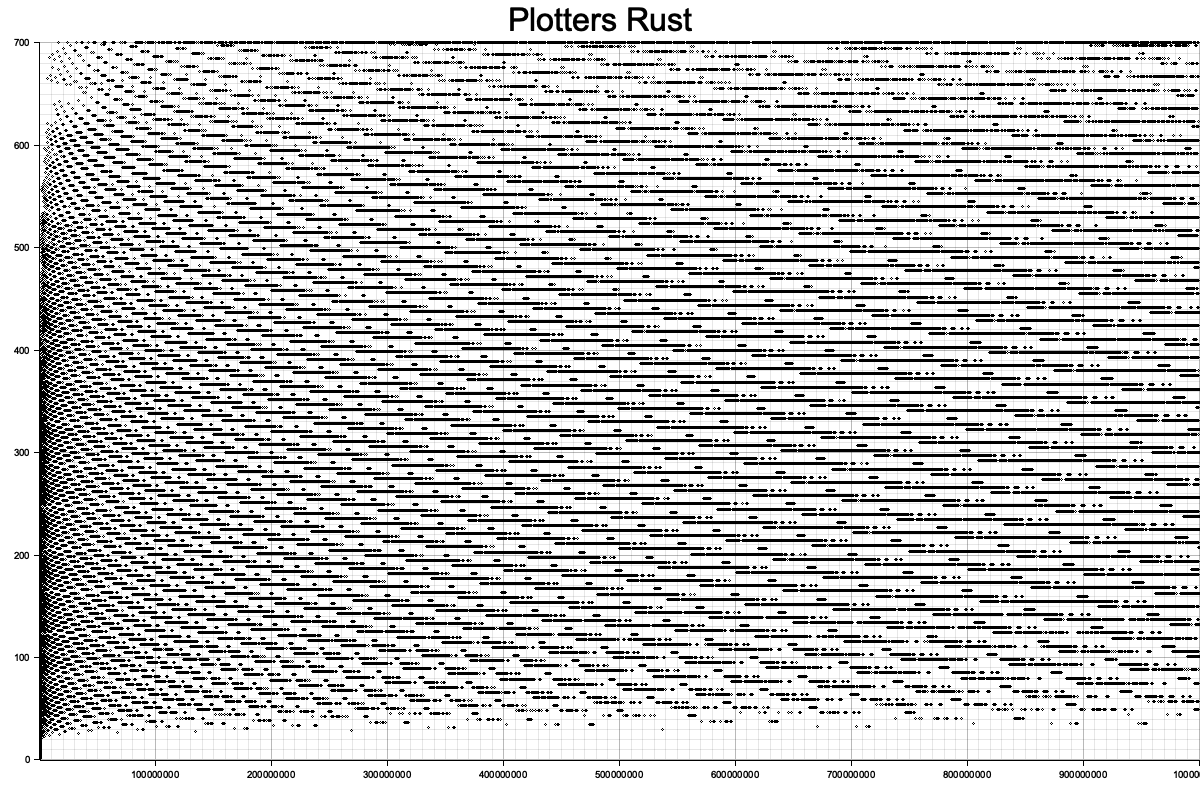
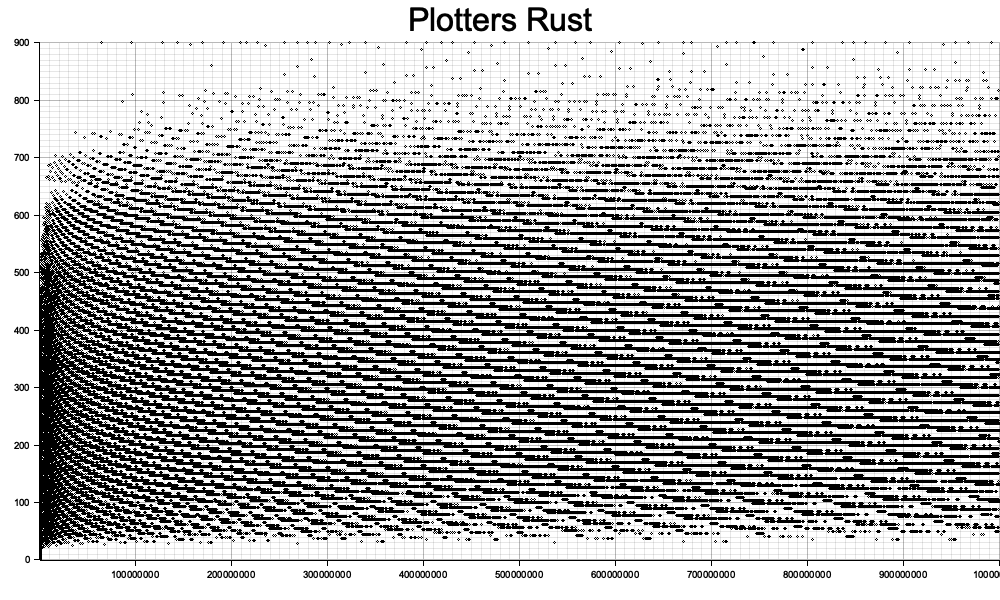
added tail call optimization

diff --git a/src/main.rs b/src/main.rs
@@ -1,23 +1,27 @@
 use collatz_rust::collatz_length_brian;
 use plotters::prelude::*;
+use std::time::Instant;
 
 fn main()  {
 
   let high = 1000000000;
+  //let high = 100000;
 
-  let xs: Vec<i32> = (1..=high).collect();
-  let points = xs.into_iter().map(|n| {let y = collatz_length_brian(n as i64); (n,y)});
-  let root_area = BitMapBackend::new("myplot.png", (1200, 800))
+  let xs  = 1..=high;
+  let points = xs.map(|n| (n,collatz_length_brian(n)) );
+
+  let start = Instant::now();
+
+  let root_area = BitMapBackend::new("myplot.png", (1000, 600))
     .into_drawing_area();
 
   root_area.fill(&WHITE).unwrap();
-
 
   let mut ctx = ChartBuilder::on(&root_area)
     .set_label_area_size(LabelAreaPosition::Left, 40)
     .set_label_area_size(LabelAreaPosition::Bottom, 40)
     .caption("Plotters Rust", ("sans-serif", 40))
-    .build_cartesian_2d(1..high, 0..700)
+    .build_cartesian_2d(1..high, 0..900)
     .unwrap();
 
   ctx.configure_mesh().draw().unwrap();
@@ -26,6 +30,7 @@ fn main()  {
 
   ctx.draw_series(series).unwrap();
 
-
+  let duration = start.elapsed();
+  println!("Time to compute points AND plot is: {:?}", duration);
 
 }

diff --git a/src/lib.rs b/src/lib.rs
@@ -1,7 +1,7 @@
 
 use itertools::iterate;
 use itertools::Itertools;
-
+use tailcall::tailcall;
 
 pub fn collatz_next(n: &i64) -> i64 {
     if n % 2 == 0 {
@@ -19,12 +19,20 @@ pub fn collatz_length(n: &i64) -> i64 {
 }
 
 pub fn collatz_length_brian(n: i64) -> i32 {
-    if n <= 1 {
-        // just in case some hack asks for collatz_length(0)
-        1
-    } else if n % 2 == 0 {
-        1 + collatz_length_brian(n / 2)
-    } else {
-        1 + collatz_length_brian(3 * n + 1)
+// compiler fail if not in tco
+    #[tailcall]
+    fn tco_helper(n: i64, sum: i64) -> i32 {
+        if n <= 1 {
+            // just in case some hack asks for collatz_length(0)
+            1 + sum as i32
+        } else if n % 2 == 0 {
+            tco_helper(n / 2, sum + 1)
+        } else {
+            tco_helper(3 * n + 1, sum + 1)
+        }
+
     }
+
+    tco_helper(n, 0)
+
 }
